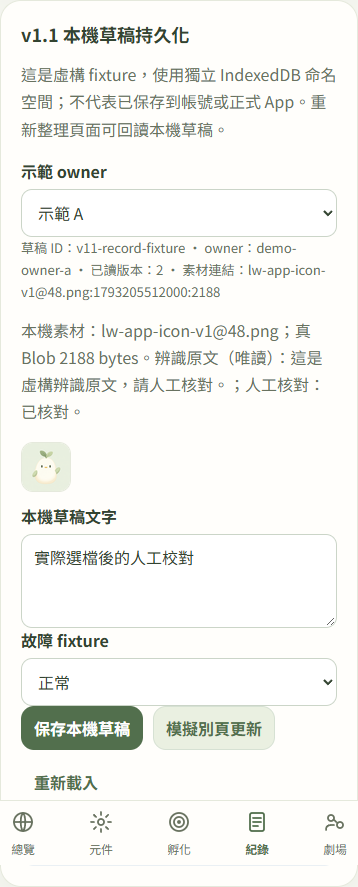
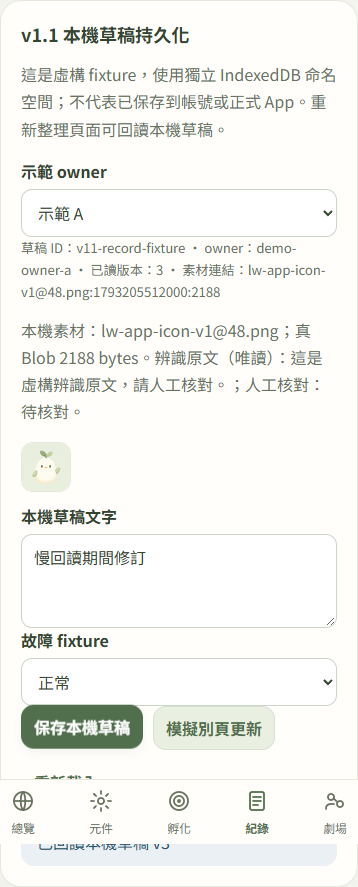
Invalidate draft review on edits and preserve media during slow load

diff --git a/collaboration/ui-kit/src/PersistentDraftDemo.tsx b/collaboration/ui-kit/src/PersistentDraftDemo.tsx
@@ -29,9 +29,10 @@ export function PersistentDraftDemo({ imported, onImportApplied }: { imported?: 
   const [loading, setLoading] = useState(true) // 尚未知道 revision 時禁止保存，以免誤蓋舊版。
   const operation = useRef(0) // owner 或重整變更使舊 UI 回應失效。
   const editGeneration = useRef(0) // 載入期間的人工輸入不可被回讀覆蓋。
-  useEffect(() => { if (!imported) return; editGeneration.current++; setText(imported.editedTranscript); setLocalSource(imported.source); setOriginalTranscript(imported.originalTranscript); setReviewed(imported.reviewed); setMessage('已套用 MediaDemo 的本機素材與校對文字；尚未保存'); onImportApplied?.() }, [imported, onImportApplied]) // 明確複製，不能自動造正式人物。
+  const sourceGeneration = useRef(0) // 文字編輯不阻止已存 Blob／原文回讀；素材匯入另計世代。
+  useEffect(() => { if (!imported) return; editGeneration.current++; sourceGeneration.current++; setText(imported.editedTranscript); setLocalSource(imported.source); setOriginalTranscript(imported.originalTranscript); setReviewed(imported.reviewed); setMessage('已套用 MediaDemo 的本機素材與校對文字；尚未保存'); onImportApplied?.() }, [imported, onImportApplied]) // 明確複製，不能自動造正式人物。
   useEffect(() => { if (!localSource?.blob) { setPreview(''); return }; const url = URL.createObjectURL(localSource.blob); setPreview(url); return () => URL.revokeObjectURL(url) }, [localSource]) // 重新載入的 Blob 也可再次預覽。
-  useEffect(() => { const token = ++operation.current; const editAtStart = editGeneration.current; setDraft(empty(ownerId)); setLoading(true); setRemote(null); setLinkError(null); setMessage('正在回讀本機草稿…'); void readWithDemoDelay(repository, ownerId).then(found => { if (operation.current !== token) return; const result = found ?? empty(ownerId); setDraft(result); setLinkError(pendingLink(result)); if (editGeneration.current === editAtStart) { setText(result.text); setLocalSource(result.source ?? null); setOriginalTranscript(result.originalTranscript ?? ''); setReviewed(result.reviewed ?? false) }; setLoading(false); setMessage(editGeneration.current === editAtStart ? found ? `已回讀本機草稿 v${result.revision}` : '此 owner 尚無本機草稿' : '回讀完成；載入期間的新輸入已保留，請明確保存') }).catch(error => { if (operation.current === token) { setLoading(false); setMessage(`回讀失敗：${error instanceof Error ? error.message : 'unknown'}`) } }); return () => { operation.current++ } }, [ownerId, repository]) // 重整與切換 owner 均從 IndexedDB 回讀。
+  useEffect(() => { const token = ++operation.current; const editAtStart = editGeneration.current; const sourceAtStart = sourceGeneration.current; setDraft(empty(ownerId)); setLoading(true); setRemote(null); setLinkError(null); setMessage('正在回讀本機草稿…'); void readWithDemoDelay(repository, ownerId).then(found => { if (operation.current !== token) return; const result = found ?? empty(ownerId); setDraft(result); setLinkError(pendingLink(result)); if (editGeneration.current === editAtStart) setText(result.text); if (sourceGeneration.current === sourceAtStart) { setLocalSource(result.source ?? null); setOriginalTranscript(result.originalTranscript ?? '') }; setReviewed(editGeneration.current === editAtStart && sourceGeneration.current === sourceAtStart ? result.reviewed ?? false : false); setLoading(false); setMessage(editGeneration.current === editAtStart ? found ? `已回讀本機草稿 v${result.revision}` : '此 owner 尚無本機草稿' : '回讀完成；載入期間的新輸入已保留，請明確保存') }).catch(error => { if (operation.current === token) { setLoading(false); setMessage(`回讀失敗：${error instanceof Error ? error.message : 'unknown'}`) } }); return () => { operation.current++ } }, [ownerId, repository]) // 重整與切換 owner 均從 IndexedDB 回讀。
   const save = async () => { // 文字、原文及真 Blob 綁在同一 owner/draft/version 交易。
     const token = operation.current
     const editAtStart = editGeneration.current
@@ -52,5 +53,5 @@ export function PersistentDraftDemo({ imported, onImportApplied }: { imported?: 
   } // 配額、權限或版本失敗都不清空本頁文字和 Blob。
   const retryLink = async () => { const token = operation.current; const result = await retryMaterialLink(repository, draft, draft.source?.id ?? 'fixture-material-1', async () => {}); if (operation.current !== token) return; setDraft(result.draft); setLinkError(result.linkError); setMessage(result.linkError ? `連結仍失敗：${result.linkError}` : `同一草稿 ${draft.draftId} 的素材已連結`) } // 真選檔使用其穩定 ID。
   const simulateParallelUpdate = async () => { try { const current = await repository.load(ownerId, draftId) ?? empty(ownerId); await repository.save({ ...current, text: `${current.text}（另一頁更新）` }, current.revision); setMessage('模擬別頁已更新；本頁版本未變') } catch (error) { setMessage(`模擬別頁更新失敗：${error instanceof Error ? error.message : 'unknown'}`) } } // 只改 demo IndexedDB。
-  return <Card title="v1.1 本機草稿持久化"><p>這是虛構 fixture，使用獨立 IndexedDB 命名空間；不代表已保存到帳號或正式 App。重新整理頁面可回讀本機草稿。</p><label className="field"><span className="field__label">示範 owner</span><select value={ownerId} onChange={event => { operation.current++; editGeneration.current++; setText(''); setLocalSource(null); setOriginalTranscript(''); setReviewed(false); setOwnerId(event.target.value) }}><option value="demo-owner-a">示範 A</option><option value="demo-owner-b">示範 B</option></select></label><p className="fine-print">草稿 ID：{draftId} · owner：{ownerId} · 已讀版本：{draft.revision} · 素材連結：{draft.materials.join('、') || '無'}</p><p>本機素材：{localSource?.name ?? '無'}；{localSource?.blob ? `真 Blob ${localSource.sizeBytes ?? localSource.blob.size} bytes` : '無真檔或僅 fixture'}。辨識原文（唯讀）：{originalTranscript || '無'}；人工核對：{reviewed ? '已核對' : '待核對'}。</p>{preview && localSource?.blob && (localSource.mimeType?.startsWith('image/') ? <img className="fixture-local-preview" src={preview} alt="本機草稿圖片預覽" /> : localSource.mimeType?.startsWith('audio/') ? <audio controls src={preview} aria-label="已保存本機音訊試聽" /> : <a href={preview} target="_blank" rel="noreferrer">開啟已保存本機素材</a>)}<Field label="本機草稿文字"><textarea rows={3} value={text} onChange={event => { editGeneration.current++; setText(event.target.value) }} placeholder="輸入虛構內容後明確保存" /></Field><label className="field"><span className="field__label">故障 fixture</span><select value={mode} onChange={event => setMode(event.target.value as typeof mode)}><option value="normal">正常</option><option value="save-failure">保存失敗</option><option value="link-failure">文字成功／素材連結失敗</option></select></label><div className="action-row"><Button disabled={loading} onClick={() => void save()}>保存本機草稿</Button><Button kind="secondary" onClick={() => void simulateParallelUpdate()}>模擬別頁更新</Button><Button kind="text" disabled={loading} onClick={() => { const token = ++operation.current; const editAtStart = editGeneration.current; setLoading(true); void readWithDemoDelay(repository, ownerId).then(found => { if (operation.current === token) { const result = found ?? empty(ownerId); setDraft(result); setLinkError(pendingLink(result)); if (editGeneration.current === editAtStart) { setText(result.text); setLocalSource(result.source ?? null); setOriginalTranscript(result.originalTranscript ?? ''); setReviewed(result.reviewed ?? false) }; setRemote(null); setLoading(false); setMessage(editGeneration.current === editAtStart ? '已重新載入本機草稿' : '回讀完成；載入期間的新輸入已保留') } }).catch(error => { if (operation.current === token) { setLoading(false); setMessage(`回讀失敗：${error instanceof Error ? error.message : 'unknown'}`) } }) }}>重新載入</Button>{linkError && <Button kind="secondary" onClick={() => void retryLink()}>重試素材連結</Button>}</div>{remote && <StatusMessage tone="warning">遠端版本 v{remote.revision}：{remote.text || '空白'}。<Button kind="text" onClick={() => { setDraft(remote); setRemote(null); setMessage('已採用新版版本號；本頁未存文字仍保留，請再保存') }}>保留本頁文字並用新版重試</Button></StatusMessage>}<StatusMessage tone={message.includes('失敗') || message.includes('衝突') ? 'error' : 'info'}>{message}</StatusMessage></Card> // 顯示錯誤與保留草稿，不建立正式經歷。
+  return <Card title="v1.1 本機草稿持久化"><p>這是虛構 fixture，使用獨立 IndexedDB 命名空間；不代表已保存到帳號或正式 App。重新整理頁面可回讀本機草稿。</p><label className="field"><span className="field__label">示範 owner</span><select value={ownerId} onChange={event => { operation.current++; editGeneration.current++; sourceGeneration.current++; setText(''); setLocalSource(null); setOriginalTranscript(''); setReviewed(false); setOwnerId(event.target.value) }}><option value="demo-owner-a">示範 A</option><option value="demo-owner-b">示範 B</option></select></label><p className="fine-print">草稿 ID：{draftId} · owner：{ownerId} · 已讀版本：{draft.revision} · 素材連結：{draft.materials.join('、') || '無'}</p><p>本機素材：{localSource?.name ?? '無'}；{localSource?.blob ? `真 Blob ${localSource.sizeBytes ?? localSource.blob.size} bytes` : '無真檔或僅 fixture'}。辨識原文（唯讀）：{originalTranscript || '無'}；人工核對：{reviewed ? '已核對' : '待核對'}。</p>{preview && localSource?.blob && (localSource.mimeType?.startsWith('image/') ? <img className="fixture-local-preview" src={preview} alt="本機草稿圖片預覽" /> : localSource.mimeType?.startsWith('audio/') ? <audio controls src={preview} aria-label="已保存本機音訊試聽" /> : <a href={preview} target="_blank" rel="noreferrer">開啟已保存本機素材</a>)}<Field label="本機草稿文字"><textarea rows={3} value={text} onChange={event => { editGeneration.current++; setText(event.target.value); setReviewed(false) }} placeholder="輸入虛構內容後明確保存" /></Field><label className="field"><span className="field__label">故障 fixture</span><select value={mode} onChange={event => setMode(event.target.value as typeof mode)}><option value="normal">正常</option><option value="save-failure">保存失敗</option><option value="link-failure">文字成功／素材連結失敗</option></select></label><div className="action-row"><Button disabled={loading} onClick={() => void save()}>保存本機草稿</Button><Button kind="secondary" onClick={() => void simulateParallelUpdate()}>模擬別頁更新</Button><Button kind="text" disabled={loading} onClick={() => { const token = ++operation.current; const editAtStart = editGeneration.current; const sourceAtStart = sourceGeneration.current; setLoading(true); void readWithDemoDelay(repository, ownerId).then(found => { if (operation.current === token) { const result = found ?? empty(ownerId); setDraft(result); setLinkError(pendingLink(result)); if (editGeneration.current === editAtStart) setText(result.text); if (sourceGeneration.current === sourceAtStart) { setLocalSource(result.source ?? null); setOriginalTranscript(result.originalTranscript ?? '') }; setReviewed(editGeneration.current === editAtStart && sourceGeneration.current === sourceAtStart ? result.reviewed ?? false : false); setRemote(null); setLoading(false); setMessage(editGeneration.current === editAtStart ? '已重新載入本機草稿' : '回讀完成；載入期間的新輸入已保留') } }).catch(error => { if (operation.current === token) { setLoading(false); setMessage(`回讀失敗：${error instanceof Error ? error.message : 'unknown'}`) } }) }}>重新載入</Button>{linkError && <Button kind="secondary" onClick={() => void retryLink()}>重試素材連結</Button>}</div>{remote && <StatusMessage tone="warning">遠端版本 v{remote.revision}：{remote.text || '空白'}。<Button kind="text" onClick={() => { setDraft(remote); setRemote(null); setMessage('已採用新版版本號；本頁未存文字仍保留，請再保存') }}>保留本頁文字並用新版重試</Button></StatusMessage>}<StatusMessage tone={message.includes('失敗') || message.includes('衝突') ? 'error' : 'info'}>{message}</StatusMessage></Card> // 顯示錯誤與保留草稿，不建立正式經歷。
 } // demo owner 不映射到真帳號，正式權限與容量另待審查。

diff --git a/collaboration/ui-kit/src/MediaDemo.tsx b/collaboration/ui-kit/src/MediaDemo.tsx
@@ -28,7 +28,7 @@ export function MediaDemo({ onApplyToDraft }: { onApplyToDraft?: (item: MediaDra
   useEffect(() => { if (!state.source?.blob && filePreview) setFilePreview('') }, [state.source?.blob, filePreview]) // 切回 fixture 或移除素材時清除舊 Blob URL。
   const chooseFile = (file?: File) => { if (!file) return; const source = { id: `${file.name}:${file.lastModified}:${file.size}`, name: file.name, kind: (file.type.startsWith('image/') ? 'image' : file.type.startsWith('audio/') ? 'audio' : 'file') as 'image' | 'audio' | 'file', sizeBytes: file.size, mimeType: file.type, blob: file }; flow.select(source); if (flow.snapshot().source?.id === source.id) setFilePreview(URL.createObjectURL(file)) } // 真本機 Blob 僅供預覽與宿主 adapter。
   useEffect(() => () => flow.cancel(), [flow]) // 卸載時取消本機等待，不能宣稱遠端工作已撤銷。
-  return <div className="stack"><div className="section-heading"><p className="eyebrow">v1.1 多模態獨立候選 · 全部為 fixture</p><h2>素材、辨識與人工校對</h2><p>本區不呼叫麥克風、網路、正式人物或成果服務；延遲與錯誤可重現。</p></div><RecorderPanel phase={recorder} error={recorderError} onStart={() => { setRecorderError(''); setRecorder('requesting_permission') }} onGrant={() => setRecorder('recording')} onDeny={() => { setRecorderError('麥克風權限遭拒，可改用文字或音檔'); setRecorder('error') }} onStop={() => { setRecorder('ready'); flow.select({ id: 'audio-fixture', name: '錄音 fixture（無真音訊）', kind: 'audio' }) }} onCancel={() => { setRecorder('idle'); flow.cancel() }} /><Card title="本機素材與上傳"><label className="field"><span className="field__label">選擇本機檔案</span><input type="file" accept="image/*,audio/*,application/pdf" onChange={event => chooseFile(event.target.files?.[0])} /></label><p className="fine-print">本 fixture 示範上限 2 MiB，格式及容量由宿主決定；選檔不會上傳。</p><div className="action-row"><Button kind="secondary" onClick={() => flow.select({ id: 'image-fixture', name: '虛構筆記.png', kind: 'image' })}>選圖片 fixture</Button><Button kind="secondary" onClick={() => flow.select({ id: 'card-fixture', name: '虛構名片.png', kind: 'business-card' })}>選名片 fixture</Button><Button kind="secondary" onClick={() => flow.select({ id: 'audio-fixture', name: '錄音 fixture', kind: 'audio' })}>選音訊 fixture</Button></div><p>本機素材：{state.source?.name ?? '尚未選取'}；上傳回執：{state.materialReceipt ?? '無'}。名片只進草稿，不建立正式人物、見面或經歷。</p>{filePreview && state.source?.blob && (state.source.mimeType?.startsWith("image/") ? <img className="fixture-local-preview" src={filePreview} alt="所選本機圖片預覽" /> : state.source.mimeType?.startsWith("audio/") ? <audio controls src={filePreview} aria-label="所選本機音訊試聽" /> : <a href={filePreview} target="_blank" rel="noreferrer">開啟所選本機檔案預覽</a>)}<div className="action-row"><Button disabled={!state.source || state.phase === 'uploading'} onClick={() => void flow.uploadSelected()}>明確上傳 fixture</Button><Button kind="secondary" disabled={!state.materialReceipt || state.phase === 'recognizing'} onClick={() => void flow.recognize()}>辨識 fixture</Button><Button kind="text" disabled={!state.source} onClick={() => flow.cancel()}>取消等待</Button><Button kind="danger" disabled={!state.source} onClick={() => flow.remove()}>移除素材</Button></div></Card><Card title="原文、校對與草稿"><p>辨識原文（唯讀）：{state.originalTranscript || '尚無原文'}</p><Field label="人工校對文字"><textarea rows={3} value={state.editedTranscript} onChange={event => flow.editTranscript(event.target.value)} placeholder="可先手動輸入，保留原素材" /></Field><p>人工核對：{state.reviewed ? '已核對' : '待核對'}；草稿版本：{state.version}。</p><div className="action-row"><Button kind="secondary" disabled={!state.editedTranscript.trim()} onClick={() => flow.markReviewed()}>標記人工核對</Button><Button disabled={state.phase === 'saving'} onClick={() => void flow.saveDraft()}>儲存草稿 fixture</Button><Button kind="secondary" disabled={!onApplyToDraft || (!state.source && !state.editedTranscript.trim())} onClick={() => onApplyToDraft?.({ source: state.source, originalTranscript: state.originalTranscript, editedTranscript: state.editedTranscript, reviewed: state.reviewed })}>套用文字與素材到本機草稿</Button>{state.source?.kind === 'business-card' && <Button kind="text" disabled={!onApplyToDraft} onClick={() => onApplyToDraft?.({ source: state.source, originalTranscript: state.originalTranscript, editedTranscript: state.editedTranscript || `名片待核對：${state.source?.name}`, reviewed: false })}>複製名片到本機草稿</Button>}</div><label>模擬故障<select value={failure} onChange={event => setFailure(event.target.value as typeof failure)}><option value="none">無</option><option value="upload">上傳失敗</option><option value="recognize">辨識失敗</option><option value="conflict">版本衝突</option></select></label><StatusMessage tone={state.error ? 'error' : state.phase === 'saved' ? 'success' : 'info'}>狀態：{state.phase}{displayError ? `；${displayError}` : ''}。此 mock 流程狀態在記憶體；可套用到下方本機草稿並明確保存。</StatusMessage></Card></div> // 完成回執不是正式紀錄確認回執。
+  return <div className="stack"><div className="section-heading"><p className="eyebrow">v1.1 多模態獨立候選 · 全部為 fixture</p><h2>素材、辨識與人工校對</h2><p>本區不呼叫麥克風、網路、正式人物或成果服務；延遲與錯誤可重現。</p></div><RecorderPanel phase={recorder} error={recorderError} onStart={() => { setRecorderError(''); setRecorder('requesting_permission') }} onGrant={() => setRecorder('recording')} onDeny={() => { setRecorderError('麥克風權限遭拒，可改用文字或音檔'); setRecorder('error') }} onStop={() => { setRecorder('ready'); flow.select({ id: 'audio-fixture', name: '錄音 fixture（無真音訊）', kind: 'audio' }) }} onCancel={() => { setRecorder('idle'); flow.cancel() }} /><Card title="本機素材與上傳"><label className="field"><span className="field__label">選擇本機檔案</span><input type="file" accept="image/*,audio/*,application/pdf" onChange={event => chooseFile(event.target.files?.[0])} /></label><p className="fine-print">本 fixture 示範上限 2 MiB，格式及容量由宿主決定；選檔不會上傳。</p><div className="action-row"><Button kind="secondary" onClick={() => flow.select({ id: 'image-fixture', name: '虛構筆記.png', kind: 'image' })}>選圖片 fixture</Button><Button kind="secondary" onClick={() => flow.select({ id: 'card-fixture', name: '虛構名片.png', kind: 'business-card' })}>選名片 fixture</Button><Button kind="secondary" onClick={() => flow.select({ id: 'audio-fixture', name: '錄音 fixture', kind: 'audio' })}>選音訊 fixture</Button></div><p>本機素材：{state.source?.name ?? '尚未選取'}；上傳回執：{state.materialReceipt ?? '無'}。名片只進草稿，不建立正式人物、見面或經歷。</p>{filePreview && state.source?.blob && (state.source.mimeType?.startsWith("image/") ? <img className="fixture-local-preview" src={filePreview} alt="所選本機圖片預覽" /> : state.source.mimeType?.startsWith("audio/") ? <audio controls src={filePreview} aria-label="所選本機音訊試聽" /> : <a href={filePreview} target="_blank" rel="noreferrer">開啟所選本機檔案預覽</a>)}<div className="action-row"><Button disabled={!state.source || state.phase === 'uploading'} onClick={() => void flow.uploadSelected()}>明確上傳 fixture</Button><Button kind="secondary" disabled={!state.materialReceipt || state.phase === 'recognizing'} onClick={() => void flow.recognize()}>辨識 fixture</Button><Button kind="text" disabled={!state.source} onClick={() => flow.cancel()}>取消等待</Button><Button kind="danger" disabled={!state.source} onClick={() => flow.remove()}>移除素材</Button></div></Card><Card title="原文、校對與草稿"><p>辨識原文（唯讀）：{state.originalTranscript || '尚無原文'}</p><Field label="人工校對文字"><textarea rows={3} value={state.editedTranscript} onChange={event => flow.editTranscript(event.target.value)} placeholder="可先手動輸入，保留原素材" /></Field><p>人工核對：{state.reviewed ? '已核對' : '待核對'}；草稿版本：{state.version}。</p><div className="action-row"><Button kind="secondary" disabled={!state.editedTranscript.trim()} onClick={() => flow.markReviewed()}>標記人工核對</Button><Button disabled={state.phase === 'saving'} onClick={() => void flow.saveDraft()}>儲存草稿 fixture</Button><Button kind="secondary" disabled={!onApplyToDraft || !state.reviewed || !state.editedTranscript.trim()} onClick={() => onApplyToDraft?.({ source: state.source, originalTranscript: state.originalTranscript, editedTranscript: state.editedTranscript, reviewed: state.reviewed })}>套用文字與素材到本機草稿</Button>{state.source?.kind === 'business-card' && <Button kind="text" disabled={!onApplyToDraft} onClick={() => onApplyToDraft?.({ source: state.source, originalTranscript: state.originalTranscript, editedTranscript: state.editedTranscript || `名片待核對：${state.source?.name}`, reviewed: false })}>複製名片到本機草稿</Button>}</div><label>模擬故障<select value={failure} onChange={event => setFailure(event.target.value as typeof failure)}><option value="none">無</option><option value="upload">上傳失敗</option><option value="recognize">辨識失敗</option><option value="conflict">版本衝突</option></select></label><StatusMessage tone={state.error ? 'error' : state.phase === 'saved' ? 'success' : 'info'}>狀態：{state.phase}{displayError ? `；${displayError}` : ''}。此 mock 流程狀態在記憶體；可套用到下方本機草稿並明確保存。</StatusMessage></Card></div> // 完成回執不是正式紀錄確認回執。
 } // 正式容量、格式、保存與辨識政策待技術審查。
 
 function delay(signal: AbortSignal): Promise<void> { // 模擬受控延遲而不接網路。

diff --git a/collaboration/ui-kit/docs/qa/v1_1/P0_P1_P2_BATCH_3_20261029.md b/collaboration/ui-kit/docs/qa/v1_1/P0_P1_P2_BATCH_3_20261029.md
@@ -15,6 +15,7 @@
 - MediaWorkflow 送出 A 保存後若編輯 B，A 的晚回應只更新版本，B 保留待保存狀態；先有有效失敗，再修正通過。
 - IndexedDB 草稿在初次或手動慢回讀期間保留新輸入，owner 切換立即失效舊回應。`v11-draft-race-qa.mjs` 在本機 Chrome 驗證慢載入、慢重新載入及 owner 切換。
 - MediaDemo 真選檔、原辨識文、人工校對及名片 fixture 有明確套用／複製到本機草稿入口；IndexedDB 以 owner＋draft＋revision 保存真 Blob 和分開文字。`v11-media-persistence-qa.mjs` 驗證容量 fixture 拒絕後復原、真圖片 Blob 與文字重整回讀、owner 隔離、文字成功但素材連結失敗後重整重試、名片只複製成待核對本機草稿。真畫面 `media-real-blob-restored-390x844.png` 已目視。正式容量政策、帳號權限、真上傳、真麥克風與跨組後端仍待 Jerry。
+- 補充回歸：MediaDemo 的「套用」只接受已核對文字，修改後須重新標記；未核對仍可保存 fixture 草稿，名片另以待核對狀態複製。持久草稿文字修改會取消 reviewed。慢回讀期間僅改文字時，已存 Blob／辨識原文仍回讀、核對失效；保存及再次重整後三者均核對正確。這些由 `v11-media-persistence-qa.mjs` 真瀏覽器反例檢查，沒有宣稱正式帳號權限。
 
 ## P2 時長與格式
 
